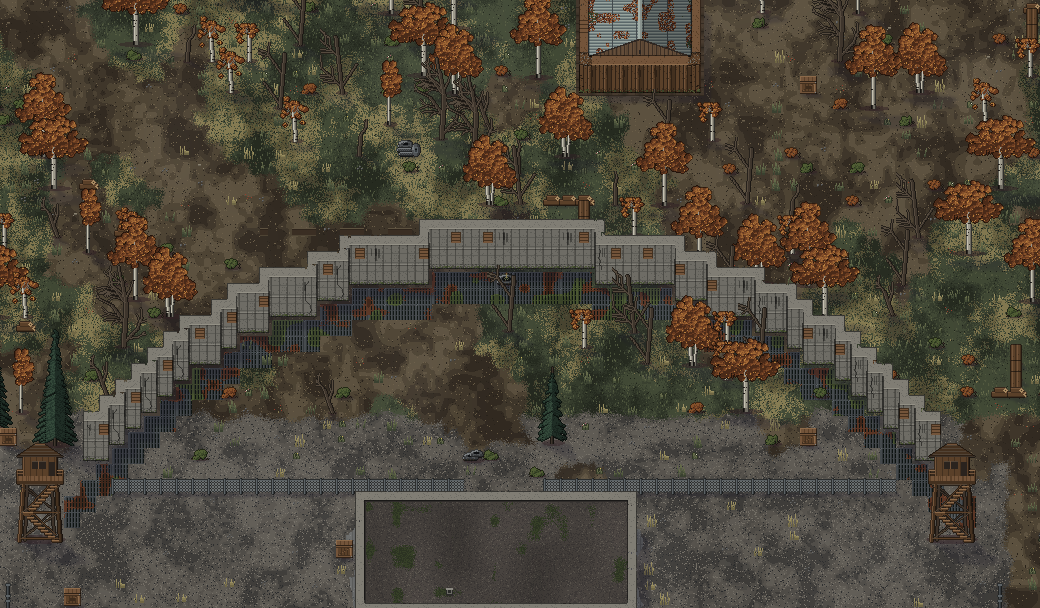
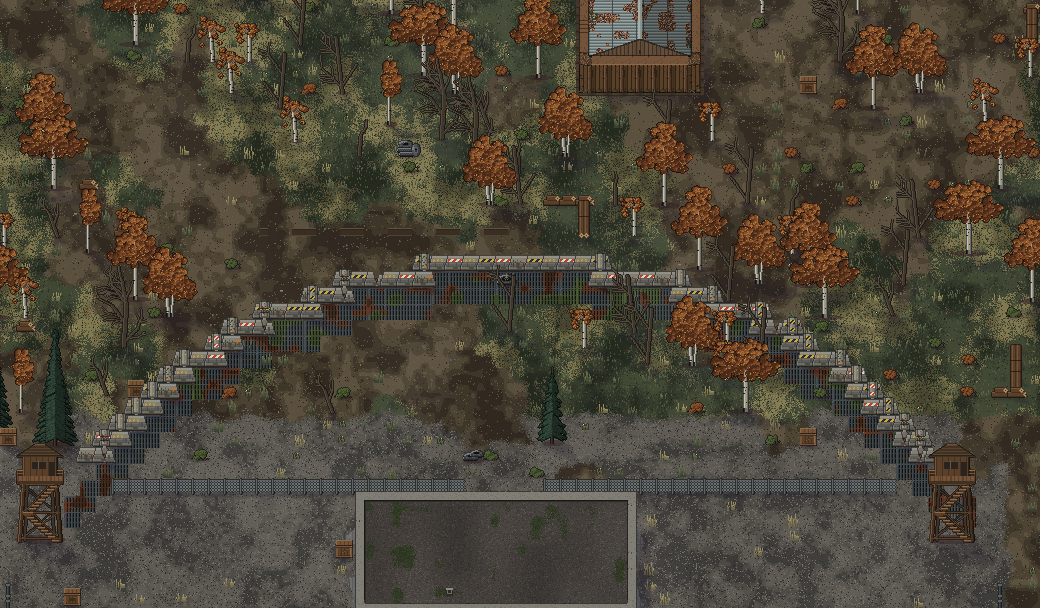
Barrier drawn as low jersey blocks (no tall wall face over the enemy side); fresh battle still
Claude-Session: https://claude.ai/code/session_01Jpd5tdDJTR7BVueAYV1KDM

Changed region(s): [[0.0615, 0.3438, 0.9231, 0.7812]]

diff --git a/Tools/render/barrier_battle.py b/Tools/render/barrier_battle.py
@@ -1,7 +1,7 @@
 #!/usr/bin/env python3
 """A still of the Barrier siege (Yan, 2026-11-18: "can you generate a 'it would look like this with the battle in progress' still"): the real map render of the Vanguard Barracks (Tools/render/render.sh
 vanguard_barracks) with the game's own armour, Husk, weapon and effect sprites placed on it where Tier4Story/Barrier.cs would put them: the Liberators on the catwalk's front row, the Obelisk horde
-outside, Husks at the foot of the wall tearing at it, the Preacher with his violet core and a pulse, a gap in the wall, grenade blasts, tracers, the HUD bar. NOT a Unity capture: no lighting, camera,
+outside, Husks at the foot of the wall tearing at it, the Preacher with his violet core and a pulse, a gap in the barrier, grenade blasts, tracers, the HUD bar. NOT a Unity capture: no lighting, camera,
 shadows beyond a flat one, UI beyond the bar; the cracks, rubble and dust are painted here.
     python3 Tools/render/barrier_battle.py out.png"""
 import sys, os, math, random
@@ -30,19 +30,19 @@ for x in range(X0, X1 + 1):
     lo, hi = cols[x]
     for y in range(lo, hi + 1):
         x0, y0, x1, y1 = tile_rect(x, y)
-        if x in GAP and y == lo:
-            D.rectangle((x0 - 2, y0 - 6, x1 + 2, y1 + 34), fill=(70, 64, 56, 255))                     # the gap: the wall's body gone
-            for _ in range(26):
-                rx, ry = rnd.randint(x0, x1), rnd.randint(y0 - 4, y1 + 30); s = rnd.randint(3, 9); c = rnd.choice([(110, 104, 96), (140, 134, 126), (84, 78, 70), (160, 152, 140)])
+        if x in GAP and y == hi:
+            D.rectangle((x0 - 2, y0 - 2, x1 + 2, y1 + 2), fill=(74, 68, 58, 255))                     # the gap: the block gone
+            for _ in range(18):
+                rx, ry = rnd.randint(x0, x1), rnd.randint(y0 - 2, y1 + 4); s = rnd.randint(3, 9); c = rnd.choice([(110, 104, 96), (140, 134, 126), (84, 78, 70), (160, 152, 140)])
                 D.polygon([(rx, ry), (rx + s, ry + 1), (rx + s - 2, ry + s - 2), (rx - 1, ry + s - 1)], fill=c + (255,))
             continue
         if dmg[x] > 0.35 and rnd.random() < dmg[x]:
             for _ in range(int(2 + dmg[x] * 4)):                                                           # cracks
-                cx_, cy_ = rnd.randint(x0 + 3, x1 - 3), rnd.randint(y0, y1 + 20)
+                cx_, cy_ = rnd.randint(x0 + 3, x1 - 3), rnd.randint(y0 + 2, y1 - 6)
                 pts = [(cx_, cy_)]
-                for k in range(rnd.randint(3, 6)): pts.append((pts[-1][0] + rnd.randint(-5, 5), pts[-1][1] + rnd.randint(3, 8)))
+                for k in range(rnd.randint(3, 6)): pts.append((pts[-1][0] + rnd.randint(-4, 4), pts[-1][1] + rnd.randint(1, 4)))
                 D.line(pts, fill=(34, 30, 28, 230), width=2)
-            if rnd.random() < 0.6: D.ellipse((x0 + 4, y0 + 8, x0 + 26, y0 + 28), fill=(30, 26, 24, 90))     # scorch
+            if rnd.random() < 0.6: D.ellipse((x0 + 2, y0 + 4, x0 + 30, y0 + 22), fill=(30, 26, 24, 90))     # scorch
 sc.alpha_composite(d_over)
 S.shadow  # (kept for the import's sake)
 # ---- units
@@ -66,7 +66,7 @@ for i, (x, y) in enumerate(foes):
 # husks at the foot of the wall, tearing at it
 hx = [149, 151, 153, 156, 158, 160, 162, 164]
 for i, x in enumerate(hx):
-    y = cols[x][0] - 3; f = foot(x, y); idx = [124, 31, 98, 127, 40, 124, 56, 31][i]
+    y = cols[x][0] - 1; f = foot(x, y); idx = [124, 31, 98, 127, 40, 124, 56, 31][i]
     units.append((y, lambda sc_=sc, f=f, idx=idx, i=i: husk(sc_, f, idx, i % 2 == 1)))
 # a few more Husks behind them
 for i, (x, y) in enumerate([(148, 98), (153, 99), (160, 98), (164, 100), (167, 102), (145, 102)]):

diff --git a/Assets/Scripts/GameCore/Barrier.cs b/Assets/Scripts/GameCore/Barrier.cs
@@ -1,5 +1,5 @@
 // The Barrier (Yan, 2026-11-18: "we want a defendable point with high cover, the barrier itself needs an HP bar ... walls with hp the enemies will break and advance ... walls with
-// catwalks you can walk on and take cover/return fire"). A fortified wall on the Vanguard Barracks' north side (TierMaps.Tier4: Solid concrete along y = Y from X0 to X1, a steel
+// catwalks you can walk on and take cover/return fire"). A fortified wall on the Vanguard Barracks' north side (TierMaps.Tier4: Solid tiles drawn as low concrete jersey barriers along an arc, a steel
 // catwalk two tiles deep behind it, the Liberators' firing step). Rules, in code:
 // - Each wall tile is "high cover" (TerrainMap.CoverAcAt = 3, Ballistics.HighCover): a round below a standing head's height stops in it; you can see through it and fire over it from the tile
 //   right behind it (the shooter-next-to-cover rule, Ballistics.Trace) - so the catwalk's front row is the firing step. It cannot be walked through or vaulted (Solid).

diff --git a/Assets/Scripts/GameCore/TierMaps.cs b/Assets/Scripts/GameCore/TierMaps.cs
@@ -1083,7 +1083,7 @@ namespace GameCore
             for (int x = 144; x < 166; x += 2) c.Put(x, 132, HardCover, "sandbags");
             c.Landmark("Command Post", 155, 126);
             // Story 8b: the Barrier (Barrier.cs): an arc of concrete bowing out to the north, the compound's firing step (a steel catwalk two tiles deep) just inside it
-            foreach (var (bx, by) in Barrier.Cells) c.Put(bx, by, Solid, "concrete");
+            foreach (var (bx, by) in Barrier.Cells) c.Put(bx, by, Solid, "jersey");
             for (int bx = Barrier.X0; bx <= Barrier.X1; bx++) { int bot = Barrier.BottomY(bx); c.Rect(bx, bot + 1, 1, 2, Empty, 0); c.Paint(bx, bot + 1, 1, 2, Grate); }
             c.Landmark("The Barrier", Barrier.CX, Barrier.StepY(Barrier.CX) + 1);   // Story 8: the Liberators' line on the north side (open ground, the cover line at y 120 behind it)
             // Barracks Row

diff --git a/ArtSource/WORK_LOG.md b/ArtSource/WORK_LOG.md
@@ -6550,3 +6550,7 @@ Yan: "spawning a machinegun nest makes no sense, maybe a machinegunner squad?"; 
 - **The shape** (`Barrier.cs`): an arc bowing out to the north (a "(" turned on its side: convex toward the enemy; say if you meant it facing west): circle of radius 35 through the two ends (x 128 and 184, y 120, the compound's north fence line) and the apex (156, 106); 8-connected cells (no diagonal gaps, vertical runs at the steep ends), the catwalk two tiles inside it. The defenders stand along the front row; the horde walks to the nearest piece of wall (a free tile beside it) and tears at it; through a gap they go to the nearest gap. Husks follow the same rule (`Barrier.Controls`).
 - **The still:** `Tools/render/barrier_battle.py` -> `maps/renders/tier4/barrier_battle.png` (the real map render + the game's armour, Husk and weapon sprites placed where the siege puts them, painted cracks/rubble/tracers/HUD bar; NOT a Unity capture); the empty arc: `maps/renders/tier4/barrier_arc.png`.
 - Harness: three RNG-sensitive checks re-seed themselves (the map change shifted the dice order). Green. Not run in Unity.
+
+## Story 8d (2026-11-18): the Barrier's look (Yan: "the husks are on top of the barrier, the raised catwalks are on the ground ... it's confusing")
+
+Yan was right, and it was the art, not only my still: the map draws a Solid "concrete" wall as a tall building wall (a face about two tiles high, its top running over the tiles NORTH of it), so anything standing at its foot is drawn over the wall, and the catwalk behind it read as plain ground under the face. Fix: the Barrier's tiles keep their rules (Solid, high cover, HP) but are now drawn as the game's low **jersey barrier** prop (hazard-striped concrete blocks, the same art as the road blocks, `Look "jersey"`; no tall face), so enemies at the foot are plainly north of it and the defenders on the steel catwalk plainly behind it. The catwalk is still FLAT (a grate deck, no real height: the engine's hit and sight rules have none), so "raised" is not true; the grate texture only separates it from the ground. If real height is wanted: `TerrainTile.Height` exists but affects only climb cost and the old turn-based sight check; a raised deck would also need edge art and stairs. Barrier still passes the harness. New still (`maps/renders/tier4/barrier_battle.png`, composite, not Unity) and the arc render.
